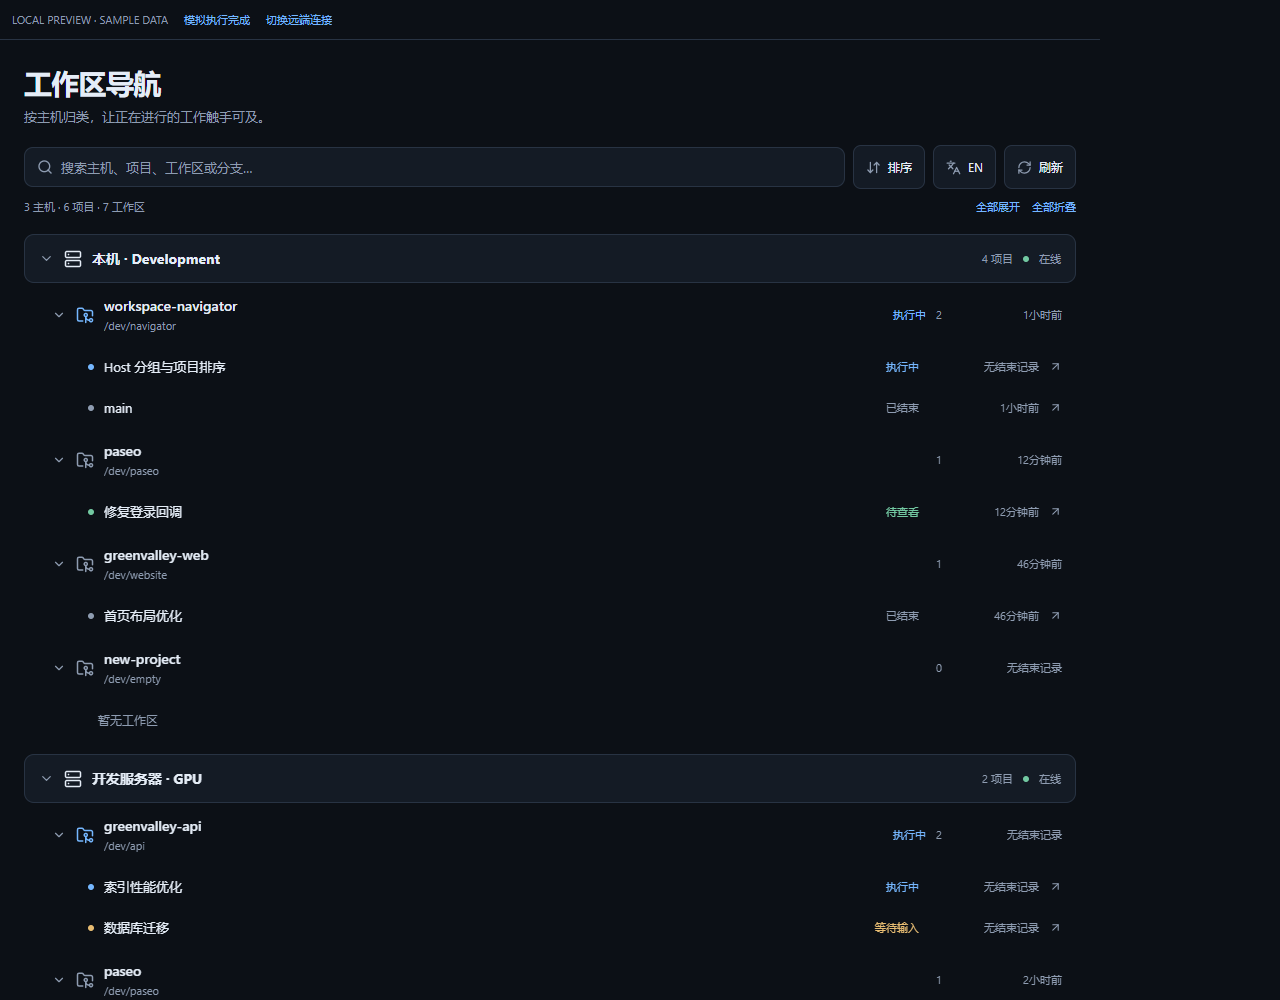
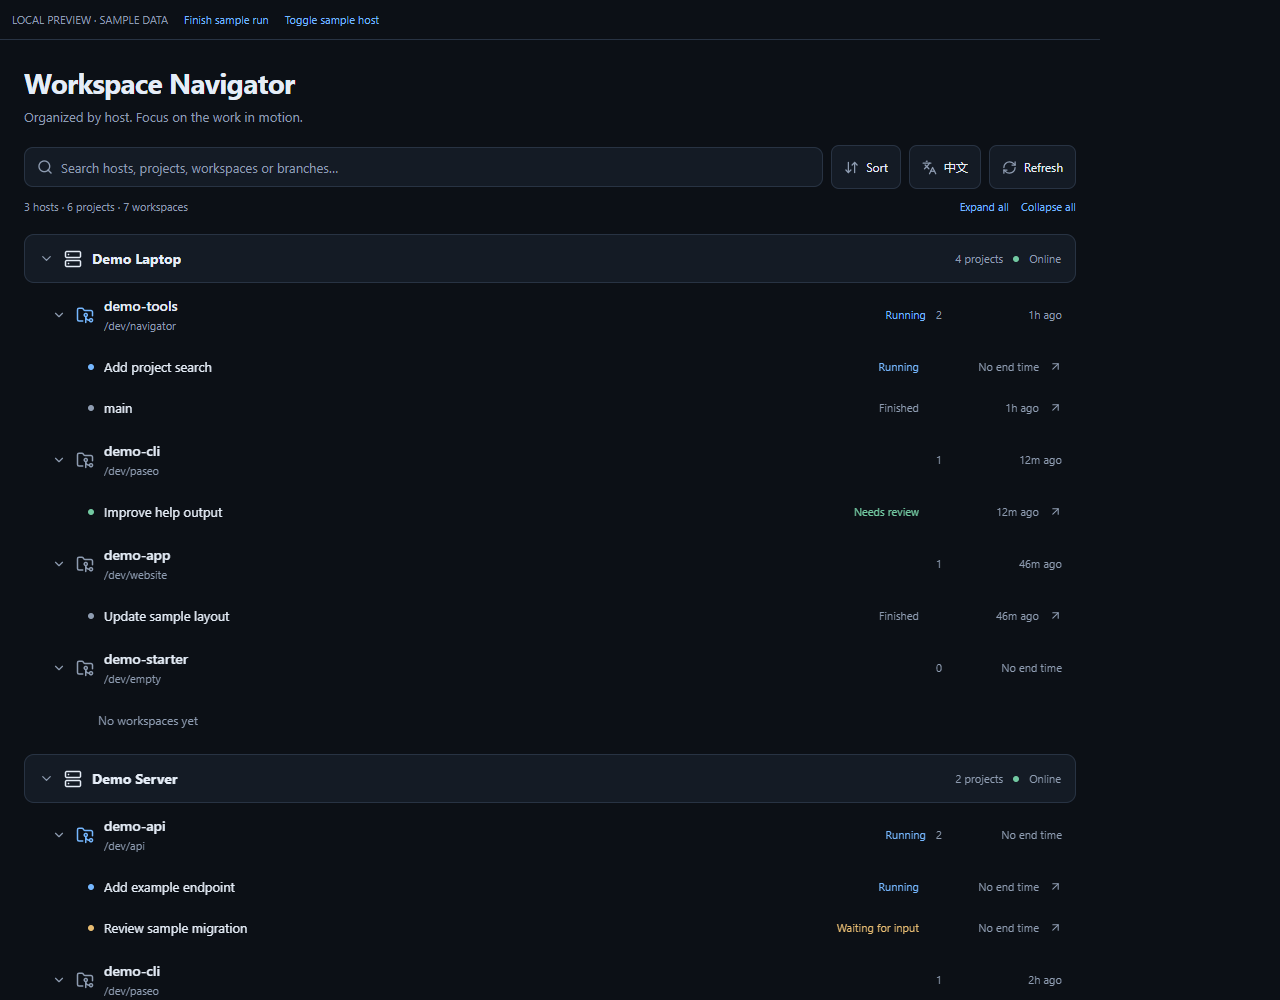
docs: split readmes and anonymize public previews

diff --git a/preview/sample-data.ts b/preview/sample-data.ts
@@ -10,49 +10,50 @@ import { host, project, workspace } from "../tests/fixtures";
 
 const now = Date.now();
 const ago = (minutes: number) => new Date(now - minutes * 60_000).toISOString();
+// Public screenshots must use fictional data, never a developer's host/project names.
 export const demoHosts: PluginHostSummary[] = [
-  { serverId: "local", label: "本机 · Development", status: "online" },
-  { serverId: "remote", label: "开发服务器 · GPU", status: "online" },
-  { serverId: "offline", label: "测试服务器", status: "offline" },
+  { serverId: "local", label: "Demo Laptop", status: "online" },
+  { serverId: "remote", label: "Demo Server", status: "online" },
+  { serverId: "offline", label: "Demo Sandbox", status: "offline" },
 ];
 const data = [
   host("local", {
     projects: [
-      project("paseo", "paseo"),
-      project("navigator", "workspace-navigator"),
-      project("website", "greenvalley-web"),
-      project("empty", "new-project"),
+      project("paseo", "demo-cli"),
+      project("navigator", "demo-tools"),
+      project("website", "demo-app"),
+      project("empty", "demo-starter"),
     ],
     workspaces: [
       workspace("navigation", "navigator", {
-        name: "Host 分组与项目排序",
+        name: "Add project search",
         status: "running",
         statusEnteredAt: ago(8),
       }),
       workspace("main", "navigator", { name: "main", statusEnteredAt: ago(90) }),
       workspace("login", "paseo", {
-        name: "修复登录回调",
+        name: "Improve help output",
         status: "attention",
         statusEnteredAt: ago(12),
       }),
-      workspace("layout", "website", { name: "首页布局优化", statusEnteredAt: ago(46) }),
+      workspace("layout", "website", { name: "Update sample layout", statusEnteredAt: ago(46) }),
     ],
   }),
   host("remote", {
-    projects: [project("api", "greenvalley-api"), project("paseo", "paseo")],
+    projects: [project("api", "demo-api"), project("paseo", "demo-cli")],
     workspaces: [
       workspace("index", "api", {
-        name: "索引性能优化",
+        name: "Add example endpoint",
         status: "running",
         statusEnteredAt: ago(25),
       }),
       workspace("permission", "api", {
-        name: "数据库迁移",
+        name: "Review sample migration",
         status: "needs_input",
         statusEnteredAt: ago(15),
       }),
       workspace("build", "paseo", {
-        name: "Windows 打包验证",
+        name: "Check demo build",
         status: "failed",
         statusEnteredAt: ago(120),
       }),
@@ -60,6 +61,11 @@ const data = [
   }),
 ];
 const pageInfo = { nextCursor: null, prevCursor: null, hasMore: false };
+for (const entry of data) {
+  if (entry.projects.some((project) => !project.projectDisplayName.startsWith("demo-"))) {
+    throw new Error("Public preview projects must use demo-prefixed fictional names");
+  }
+}
 function channel<T>(get: () => T) {
   const listeners = new Set<SubscriptionObserver<T & { subscriptionId: string }>>();
   return {
@@ -122,7 +128,7 @@ for (const entry of data) {
 export function finishDemoExecution() {
   const entry = data[0];
   const next = workspace("navigation", "navigator", {
-    name: "Host 分组与项目排序",
+    name: "Add project search",
     statusEnteredAt: new Date().toISOString(),
   });
   entry.workspaces = entry.workspaces.map((workspace) =>

diff --git a/tests/browser/navigator.spec.ts b/tests/browser/navigator.spec.ts
@@ -23,12 +23,12 @@ test("host tree, configurable sorting, search, persistent collapse and cross-hos
   await expect(page.getByTestId("project-local-navigator")).toBeVisible();
   await expect(page.getByTestId("workspace-local-navigation")).toHaveCount(0);
   const search = page.getByRole("textbox");
-  await search.fill("Host 分组");
+  await search.fill("project search");
   await expect(page.getByTestId("workspace-local-navigation")).toBeVisible();
   await expect(page.getByTestId("project-local-paseo")).toHaveCount(0);
   await page.getByRole("button", { name: "清空搜索" }).click();
   await expect(page.getByTestId("workspace-local-navigation")).toHaveCount(0);
-  await search.fill("Windows");
+  await search.fill("demo build");
   await page.getByTestId("workspace-remote-build").click();
   await expect(page.getByTestId("opened-target")).toHaveText("remote/build");
   expect(errors).toEqual([]);
@@ -55,6 +55,10 @@ test("live execution completion, offline host isolation and search empty state",
 test("preview screenshots and narrow layout remain usable", async ({ page }, testInfo) => {
   await page.goto("/");
   await expect(page.getByTestId("project-local-navigator")).toBeVisible();
+  await page.getByRole("button", { name: "EN", exact: true }).click();
+  await expect(
+    page.getByRole("heading", { name: "Workspace Navigator", exact: true }),
+  ).toBeVisible();
   const dimensions = await page.evaluate(() => ({
     width: document.documentElement.clientWidth,
     content: document.documentElement.scrollWidth,

diff --git a/preview/main.tsx b/preview/main.tsx
@@ -47,21 +47,21 @@ function App() {
           accessibilityLabel="Finish demo execution"
           onPress={finishDemoExecution}
         >
-          <Text style={{ color: theme.colors.accent, fontSize: 11 }}>模拟执行完成</Text>
+          <Text style={{ color: theme.colors.accent, fontSize: 11 }}>Finish sample run</Text>
         </Pressable>
         <Pressable
           accessibilityRole="button"
           accessibilityLabel="Toggle remote connection"
           onPress={disconnectRemote}
         >
-          <Text style={{ color: theme.colors.accent, fontSize: 11 }}>切换远端连接</Text>
+          <Text style={{ color: theme.colors.accent, fontSize: 11 }}>Toggle sample host</Text>
         </Pressable>
         <Text testID="opened-target" style={{ color: theme.colors.foregroundMuted, fontSize: 11 }}>
           {opened}
         </Text>
       </View>
       <NavigatorScreen
-        host={{ id: "local", label: "本机" }}
+        host={{ id: "local", label: "Demo Laptop" }}
         theme={theme}
         layout={{ compact: width < 640, platform: "web" }}
         params={{}}

diff --git a/README.md b/README.md
@@ -1,54 +1,66 @@
 # Workspace Navigator
 
-[English](#english) · [中文](#中文)
+English · [简体中文](README.zh-CN.md)
 
-## 中文
+A Paseo plugin that organizes workspaces as **Host → Project → Workspace**, with collapsible groups, search, and configurable execution-time sorting.
 
-Paseo 的独立工作区导航插件。按 **Host → Project → Workspace** 展示，减少多主机、多项目时反复滚动寻找工作区的操作。
+## Features
 
-### 功能
+- Collapsible host and project groups with connection status.
+- Default order: **running first, then latest execution end time**.
+- A sort menu with execution end time or name, ascending or descending, and an independent running-first switch. The same rules apply to projects and workspaces; hosts keep Paseo's configured order.
+- Search hosts, projects, directories, workspaces, and branches. Matches expand temporarily; clearing search restores the saved collapse state.
+- Open a workspace on its owning host using Paseo's native navigation.
+- Sort, collapse, and language preferences saved on the plugin host and shared by its clients.
+- English and Chinese, compact phone layouts, and read-only display of previously loaded offline hosts.
 
-- 可折叠的主机、项目树，显示连接状态。
-- 默认**执行中优先，其余按最近执行结束时间倒序**。
-- 排序图标打开设置，支持执行结束时间或名称、升降序及“执行中优先”独立开关。项目和工作区使用相同排序规则；主机顺序跟随 Paseo 配置。
-- 搜索主机、项目、路径、工作区和分支。搜索时临时展开匹配项，清空后恢复折叠状态。
-- 点击工作区进入所属主机的 Paseo 原生工作界面。
-- 排序、折叠状态和界面语言保存在插件所在主机，由该主机的客户端共享。
-- 中文／英文；手机紧凑布局；离线主机保留本次页面已经加载的数据，禁用打开操作。
+## Installation
 
-### 安装
+Requires **Paseo client and daemon 0.11.4 or newer**. Enable plugins under **Settings → your host → Plugins**, then enter this in **Plugin source** and select **Install plugin**:
 
-要求 **Paseo 客户端和 daemon 0.11.4 或更新版本**。先在目标主机的 Settings → Plugins 中开启插件，再安装 Git 源：
+```text
+git:yeyan00/paseo-workspace-navigator
+```
+
+Or use the CLI:
 
 ```sh
 paseo plugin install git:yeyan00/paseo-workspace-navigator
 ```
 
-本地开发目录安装：
+For local development, supply the absolute directory on the daemon machine, for example:
 
 ```powershell
-paseo plugin install "C:\00_work\greenvalley\code\llm\paseo-plugins\paseo-workspace-navigator"
+paseo plugin install "C:\plugins\paseo-workspace-navigator"
 ```
 
-打开侧栏 **Workspace Navigator**，或在 Command Center 搜索同名命令。安装在一台主机后，页面可以读取客户端已连接的其他主机，目标主机无需重复安装。承载插件的主机必须可用。
+Open **Workspace Navigator** from the sidebar or Command Center. Only the host serving the plugin needs it installed. The page can query other hosts configured and connected in the current client. The plugin host must remain available.
 
-> 插件在 daemon 和客户端中作为受信任代码运行。本插件只查询目录和状态、打开工作区，并保存自身的显示偏好；不读取聊天正文，不发送提示词，不执行 shell，也不归档或删除工作区。
+Plugins run as trusted code in the daemon and app. This plugin reads directory and execution metadata, opens workspaces, and saves its own display preferences. It does not read conversation bodies, send prompts, run shell commands, or archive or delete workspaces.
 
-### 排序时间的含义
+## Sorting
 
-项目的结束时间取所有可见工作区的最新值。工作区使用 Paseo 报告的结束／失败状态进入时间，以及 Agent 的完成／错误 attention 时间。等待输入不算完成，执行中状态优先于结束时间。
+A project's end time is the latest reported end time among its visible workspaces. The plugin uses workspace completion/failure status-entry times and agent completion/error attention timestamps. Waiting for input does not count as completion.
 
-公开 API 没有完整的执行结束历史，已有状态时间是**最佳可用近似值**，不保证等于最后一条消息的精确时间。无时间的项目稳定排在后面；相同时间按名称排序。不使用项目创建、首次发现、点击打开、Agent `updatedAt` 或流式输出时间。
+The public API does not expose a complete execution-end history, so these are **best-effort timestamps**, not necessarily the exact time of the last message. Missing times always sort last, and tied times use name order. Creation, first discovery, opening, agent `updatedAt`, and streaming timestamps do not affect ranking.
 
-### 手机支持
+## Mobile and limitations
 
-生产代码使用 React Native、宿主的 FlatList、TextInput 和 Modal，不依赖 DOM、localStorage 或网页侧栏结构。手机使用紧凑布局和宿主弹层。已验证手机尺寸下的 Web 交互；**iOS／Android 原生客户端尚未真机验证**。
+Production code uses React Native and host-provided FlatList, TextInput, and Modal components, with no DOM or localStorage dependency. Phone layouts use compact rows and the host's modal presentation. Desktop and phone-sized browser interactions are tested; **native iOS and Android have not yet been device-verified**.
 
-插件新增独立导航页，不替换 Paseo 内置 Workspaces 侧栏。初次加载离线主机时没有缓存；关闭导航页后不会继续订阅数据。不同主机安装的插件各自保存偏好。
+This plugin adds a separate navigation screen rather than replacing the built-in workspace sidebar. An offline host has no data on first load; only data already loaded in the current screen is retained. Closing the screen releases its subscriptions. Separate plugin installations keep separate preferences.
 
-### 开发与验证
+## Screenshots
 
-Node.js 22.18+。
+These screenshots show the actual UI with **fictional sample hosts, projects, tasks, and paths**, not a live daemon. Preview controls are development-only.
+
+![Desktop preview with fictional sample data](assets/navigator-desktop.png)
+
+<img src="assets/navigator-mobile.png" alt="Compact preview with fictional sample data" width="390" />
+
+## Development
+
+Node.js 22.18+.
 
 ```sh
 npm ci
@@ -58,30 +70,16 @@ npm run check:package
 npm run check:install
 ```
 
-浏览器测试默认使用已安装的 Microsoft Edge；其他环境修改 `playwright.config.ts` 的浏览器 channel。录像依赖 `npx playwright install ffmpeg`。
+Browser checks use installed Microsoft Edge by default; adjust the channel in `playwright.config.ts` for another environment. Video recording requires `npx playwright install ffmpeg`.
 
 ```sh
 npm run preview
 ```
 
-本地预览地址为 `http://127.0.0.1:5178`。预览使用明确标注的示例数据和模拟 SDK，不连接真实 daemon。它运行真实的导航组件、树模型和目录订阅逻辑，但不能替代 Paseo 内的集成验证。
+Open `http://127.0.0.1:5178`. The preview uses fictional sample data and simulated host/settings adapters. It exercises the real UI, tree model, and subscription logic but is not a live-daemon integration test. Keep all preview data and screenshots fictional; do not use private project names, hostnames, user directories, or machine-specific paths.
 
-`check:install` 下载固定提交的官方编译器，在没有 `node_modules` 的临时安装目录中编译插件，并验证旧的直接类型导入确实会失败。该检查需要访问 GitHub。
+`check:install` downloads a pinned official compiler revision, reproduces the former direct-type-import error, and compiles the plugin in an isolated checkout without `node_modules`. It requires GitHub access.
 
-修改后运行 `paseo plugin reload workspace-navigator`，查看日志用 `paseo plugin logs workspace-navigator`。
+After editing, run `paseo plugin reload workspace-navigator`. Use `paseo plugin logs workspace-navigator` to inspect load errors.
 
-详见 [验证记录](docs/verification.md) 和 [市场发布](docs/publishing.md)。
-
-## English
-
-A focused Paseo navigator organized as **Host → Project → Workspace**. Expand hosts and projects, search names, paths and branches, and open a workspace on its owning host.
-
-Default order is **running first, then latest execution end time**. The sort menu offers execution end time or name, ascending or descending, and an independent running-first toggle. Hosts keep Paseo's configured order. Missing execution timestamps always sort last. Sorting uses reported workspace status-entry and agent completion/error attention timestamps, not creation, opening or streaming timestamps. The public API does not expose a complete execution-end history, so these timestamps are best-effort.
-
-Requires Paseo client and daemon **0.11.4+**. Enable plugins on the installation host, then install using the Git command above. Open **Workspace Navigator** from the sidebar or Command Center. Other connected hosts do not need the plugin installed. The installation host supplies shared sort, collapse and language preferences and must remain available.
-
-The plugin adds a separate screen rather than replacing Paseo's built-in sidebar. Production uses React Native and public SDK APIs, with compact layouts for phones. Desktop and mobile-sized browser interactions are tested; native iOS and Android are not yet device-verified. Screenshots below show the real UI with labelled sample data, not a live daemon.
-
-![Desktop preview with sample data](assets/navigator-desktop.png)
-
-![Compact preview with sample data](assets/navigator-mobile.png)
+See the [verification record](docs/verification.md) and [registry publishing guide (Chinese)](docs/publishing.md).

diff --git a/README.zh-CN.md b/README.zh-CN.md
@@ -1,0 +1,81 @@
+# Workspace Navigator
+
+[English](README.md) · 简体中文
+
+Paseo 的独立工作区导航插件。按 **Host → Project → Workspace** 展示，减少多主机、多项目时反复滚动寻找工作区的操作。
+
+### 功能
+
+- 可折叠的主机、项目树，显示连接状态。
+- 默认**执行中优先，其余按最近执行结束时间倒序**。
+- 排序图标打开设置，支持执行结束时间或名称、升降序及“执行中优先”独立开关。项目和工作区使用相同排序规则；主机顺序跟随 Paseo 配置。
+- 搜索主机、项目、路径、工作区和分支。搜索时临时展开匹配项，清空后恢复折叠状态。
+- 点击工作区进入所属主机的 Paseo 原生工作界面。
+- 排序、折叠状态和界面语言保存在插件所在主机，由该主机的客户端共享。
+- 中文／英文；手机紧凑布局；离线主机保留本次页面已经加载的数据，禁用打开操作。
+
+### 安装
+
+要求 **Paseo 客户端和 daemon 0.11.4 或更新版本**。先在目标主机的 Settings → Plugins 中开启插件，再安装 Git 源：
+
+```sh
+paseo plugin install git:yeyan00/paseo-workspace-navigator
+```
+
+本地开发目录安装：
+
+```powershell
+paseo plugin install "C:\plugins\paseo-workspace-navigator"
+```
+
+打开侧栏 **Workspace Navigator**，或在 Command Center 搜索同名命令。安装在一台主机后，页面可以读取客户端已连接的其他主机，目标主机无需重复安装。承载插件的主机必须可用。
+
+> 插件在 daemon 和客户端中作为受信任代码运行。本插件只查询目录和状态、打开工作区，并保存自身的显示偏好；不读取聊天正文，不发送提示词，不执行 shell，也不归档或删除工作区。
+
+### 排序时间的含义
+
+项目的结束时间取所有可见工作区的最新值。工作区使用 Paseo 报告的结束／失败状态进入时间，以及 Agent 的完成／错误 attention 时间。等待输入不算完成，执行中状态优先于结束时间。
+
+公开 API 没有完整的执行结束历史，已有状态时间是**最佳可用近似值**，不保证等于最后一条消息的精确时间。无时间的项目稳定排在后面；相同时间按名称排序。不使用项目创建、首次发现、点击打开、Agent `updatedAt` 或流式输出时间。
+
+### 手机支持
+
+生产代码使用 React Native、宿主的 FlatList、TextInput 和 Modal，不依赖 DOM、localStorage 或网页侧栏结构。手机使用紧凑布局和宿主弹层。已验证手机尺寸下的 Web 交互；**iOS／Android 原生客户端尚未真机验证**。
+
+插件新增独立导航页，不替换 Paseo 内置 Workspaces 侧栏。初次加载离线主机时没有缓存；关闭导航页后不会继续订阅数据。不同主机安装的插件各自保存偏好。
+
+### 开发与验证
+
+Node.js 22.18+。
+
+```sh
+npm ci
+npm run check
+npm run test:browser
+npm run check:package
+npm run check:install
+```
+
+浏览器测试默认使用已安装的 Microsoft Edge；其他环境修改 `playwright.config.ts` 的浏览器 channel。录像依赖 `npx playwright install ffmpeg`。
+
+```sh
+npm run preview
+```
+
+本地预览地址为 `http://127.0.0.1:5178`。预览使用明确标注的示例数据和模拟 SDK，不连接真实 daemon。它运行真实的导航组件、树模型和目录订阅逻辑，但不能替代 Paseo 内的集成验证。
+
+预览数据及截图必须使用虚构的项目、主机、任务和路径，不能包含私有项目名、用户目录或真实机器路径。
+
+`check:install` 下载固定提交的官方编译器，在没有 `node_modules` 的临时安装目录中编译插件，并验证旧的直接类型导入确实会失败。该检查需要访问 GitHub。
+
+修改后运行 `paseo plugin reload workspace-navigator`，查看日志用 `paseo plugin logs workspace-navigator`。
+
+详见 [验证记录](docs/verification.md) 和 [市场发布](docs/publishing.md)。
+
+## 界面截图
+
+截图来自实际界面，使用**虚构的示例主机、项目、任务和路径**，未连接真实 daemon。预览控制按钮仅在开发环境显示。
+
+![桌面端虚构示例数据预览](assets/navigator-desktop.png)
+
+<img src="assets/navigator-mobile.png" alt="手机端虚构示例数据预览" width="390" />
